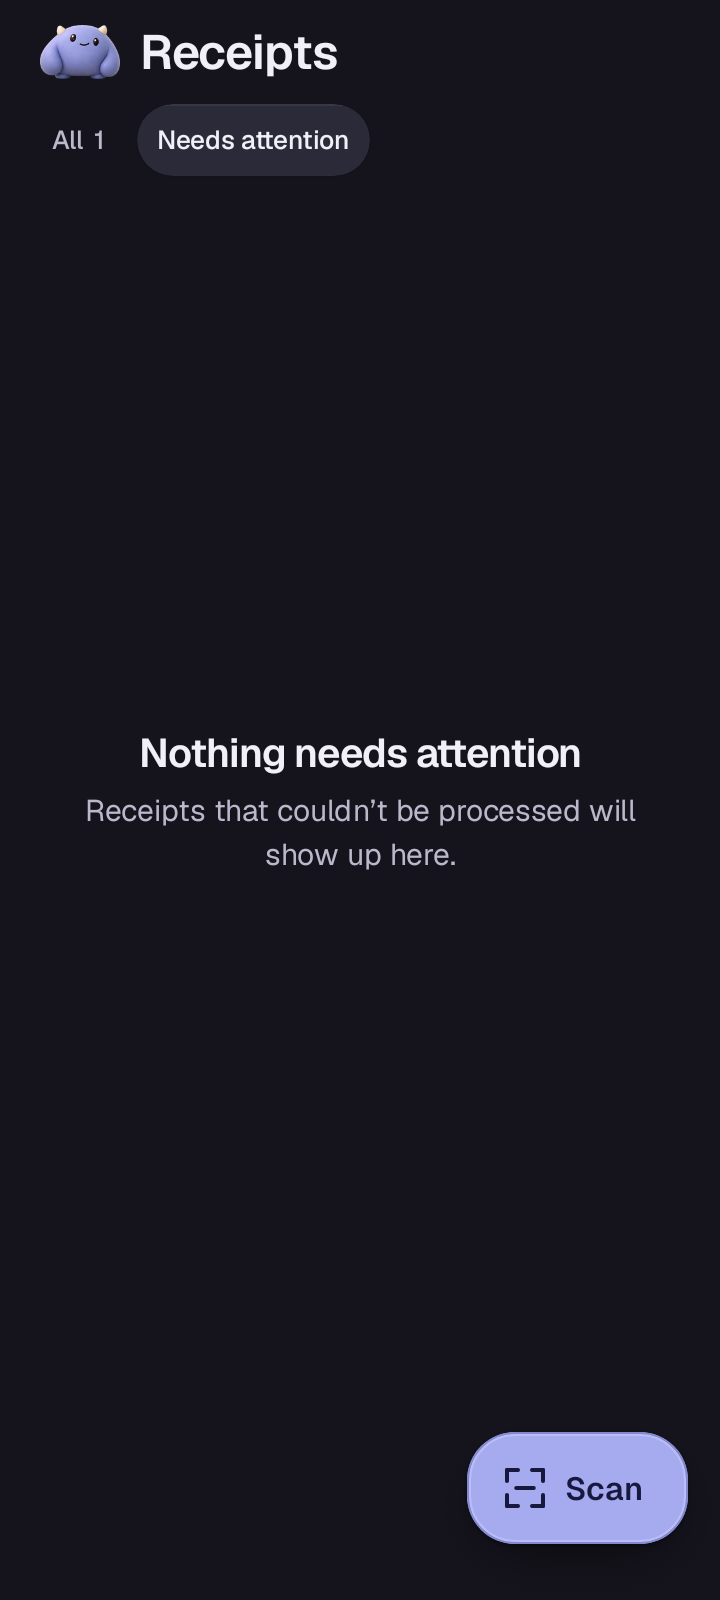
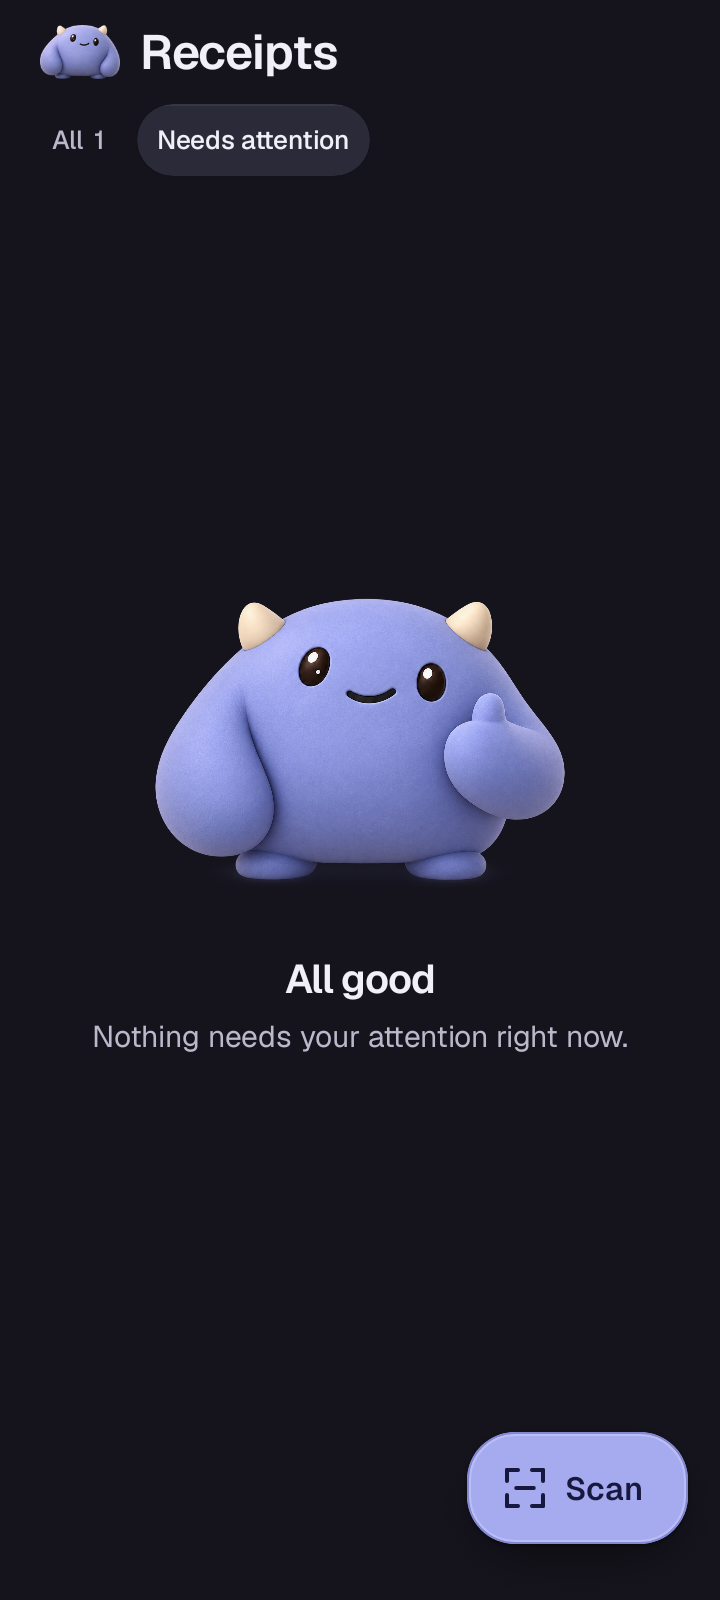
feat(goho-android): add reassuring Bram to the all-good state
- show the approved thumbs-up Bram when Needs attention is empty
- pair the illustration with calm all-good copy in both themes
- synchronize design guidance, artwork sources, and native mockups

diff --git a/programs/goho-android/tools/bram-captures/harness/src/com/adamaho/goho/evidence/ReceiptEvidenceTest.kt b/programs/goho-android/tools/bram-captures/harness/src/com/adamaho/goho/evidence/ReceiptEvidenceTest.kt
@@ -68,7 +68,7 @@ class ReceiptEvidenceTest {
     private fun attention(name: String) {
         render(ReceiptOverviewState(receipts = listOf(saved), hasLoaded = true))
         compose.onNodeWithText("Needs attention").performClick()
-        compose.onNodeWithText("Nothing needs attention").assertExists()
+        compose.onNodeWithText("All good").assertExists()
         capture(name)
     }
     private fun error(name: String) { render(ReceiptOverviewState(error = true)); capture(name) }
@@ -98,7 +98,7 @@ class ReceiptEvidenceTest {
         RuntimeEnvironment.setFontScale(2f)
         attention("large-font-no-attention")
         compose.onNodeWithText("Scan", useUnmergedTree = true).assertIsDisplayed()
-        compose.onNodeWithText("Receipts that couldn’t be processed will show up here.", useUnmergedTree = true).performScrollTo().assertIsDisplayed()
+        compose.onNodeWithText("Nothing needs your attention right now.", useUnmergedTree = true).performScrollTo().assertIsDisplayed()
         capture("large-font-no-attention-scrolled")
     }
     private fun deleteLast(withSaved: Boolean, name: String) {
@@ -116,7 +116,7 @@ class ReceiptEvidenceTest {
         compose.waitForIdle()
         compose.onNodeWithText("Delete receipt").performClick()
         compose.waitForIdle()
-        compose.onNodeWithText("Nothing needs attention").assertIsDisplayed()
+        compose.onNodeWithText("All good").assertIsDisplayed()
         compose.onNodeWithText("Needs attention").assertIsSelected()
         compose.onNodeWithText("Needs attention").assertTextEquals("Needs attention")
         compose.onNodeWithText("Scan", useUnmergedTree = true).assertIsDisplayed()

diff --git a/.agents/skills/goho-design/assets/compose/GohoComponents.kt b/.agents/skills/goho-design/assets/compose/GohoComponents.kt
@@ -986,8 +986,9 @@ fun GohoDeleteError(modifier: Modifier = Modifier) {
 
 // ---------- Status content (empty and error states) ----------
 
-/** Current status content sits directly on the screen background. No receipts supplies Bram.
- * Needs-attention and load-error states omit illustration; additional character poses are deferred.
+/** Current status content sits directly on the screen background. No receipts supplies receipt-holding Bram.
+ * Empty Needs attention supplies calm thumbs-up Bram with "All good" and "Nothing needs your attention right now."
+ * Each state uses its transparent illustration unchanged in light and dark themes. Load error omits illustration.
  * For retry, pass announcePolitely = true and reserve both button labels.
  * ReceiptOverview owns the success crossfade and passes animateEntrance = false on the incoming status content.
  */

diff --git a/programs/goho-android/app/src/debug/kotlin/com/adamaho/goho/ui/main/ReceiptStatesPreview.kt b/programs/goho-android/app/src/debug/kotlin/com/adamaho/goho/ui/main/ReceiptStatesPreview.kt
@@ -37,12 +37,12 @@ fun ReceiptsRetryingPreview() = StatePreview {
     ReceiptsConnectionErrorState(onRetry = {}, isRetrying = true)
 }
 
-@Preview(name = "Nothing needs attention – light", widthDp = 412)
+@Preview(name = "All good – light", widthDp = 412)
 @Preview(
-    name = "Nothing needs attention – dark",
+    name = "All good – dark",
     widthDp = 412,
     uiMode = Configuration.UI_MODE_NIGHT_YES,
 )
-@Preview(name = "Nothing needs attention – large text", widthDp = 320, fontScale = 1.5f)
+@Preview(name = "All good – large text", widthDp = 320, fontScale = 1.5f)
 @Composable
 fun NoNeedsAttentionPreview() = StatePreview { NoNeedsAttentionState() }

diff --git a/programs/goho-android/app/src/main/kotlin/com/adamaho/goho/ui/components/NoNeedsAttentionState.kt b/programs/goho-android/app/src/main/kotlin/com/adamaho/goho/ui/components/NoNeedsAttentionState.kt
@@ -11,6 +11,7 @@ fun NoNeedsAttentionState(modifier: Modifier = Modifier, animateEntrance: Boolea
         title = stringResource(R.string.receipts_attention_empty),
         description = stringResource(R.string.receipts_attention_empty_body),
         modifier = modifier,
+        illustration = R.drawable.status_needs_attention,
         animateEntrance = animateEntrance,
     )
 }

diff --git a/.agents/skills/goho-design/SKILL.md b/.agents/skills/goho-design/SKILL.md
@@ -5,7 +5,7 @@ description: Goho's visual design system and screen specs for the native Android
 
 # Goho design
 
-Design handoff: October 7, 2026 no-receipts illustration and layout refinement, building on the October 5 Bram refinements (PR #101) and October 2 v2 package. The approved app refinements below take precedence over older examples in the reference assets.
+Design handoff: October 7, 2026 calm “All good” Bram for the empty Needs attention filter, building on the no-receipts and cardless layout refinement (PR #102), October 5 Bram refinements (PR #101), and October 2 v2 package. The approved app refinements below take precedence over older examples in the reference assets.
 
 Goho is a family receipt-scanning app. The look is **warm, soft and friendly, with financial-app precision**: warm off-white in light mode, violet-charcoal in dark mode, one lavender accent, generous rounded corners, Geist type with restrained weights and proportional figures, grouped cards, and buttons that press down with a small spring.
 
@@ -13,7 +13,7 @@ Think "Family wallet's warmth and motion, Linear's calm surfaces", never "Materi
 
 ## Bram refinements
 
-Buttons use flat fills, darker edge rings, faint inner rings and soft wide shadows; see `references/tokens.md`. Current Bram artwork is limited to the no-receipts illustration and neutral stance/header mark in `assets/illustrations/`. Render the supplied artwork unchanged. All three list status states render directly on the screen background, without an enclosing card fill, border or rounded clipping. Preserve their content padding, spacing and placement. The no-receipts state uses one transparent image of Bram cradling a blank receipt in both themes. Needs-attention and load-error states contain text and their existing actions, without illustrations or reserved illustration space. Additional character poses and accessories are deferred to a later PR. Interactive accents are lavender. The decorative 40dp neutral Bram mark precedes the Receipts title with a 10dp gap, except in the load-error state. Buttons have 20dp corners and Scan 24dp. Status entrance, retry, recovery, and large-text behavior are specified in `references/screens.md` section 6.
+Buttons use flat fills, darker edge rings, faint inner rings and soft wide shadows; see `references/tokens.md`. Current Bram artwork in `assets/illustrations/` includes the no-receipts illustration, calm thumbs-up for the empty Needs attention filter, and neutral stance/header mark. Render the supplied artwork unchanged. All three list status states render directly on the screen background, without an enclosing card fill, border or rounded clipping. Preserve their content padding, spacing and placement. The no-receipts state uses one transparent image of Bram cradling a blank receipt in both themes. The empty Needs attention state uses one transparent image of Bram giving a calm thumbs-up in both themes, with “All good” and “Nothing needs your attention right now.” Keep his familiar lilac and cream palette, soft smile and rounded arm; no confetti or streamers. Load-error content remains text and retry action, without illustration or reserved illustration space. Additional character poses and accessories are deferred until their feature is implemented. Interactive accents are lavender. The decorative 40dp neutral Bram mark precedes the Receipts title with a 10dp gap, except in the load-error state. Buttons have 20dp corners and Scan 24dp. Status entrance, retry, recovery, and large-text behavior are specified in `references/screens.md` section 6.
 
 ## Geist typography
 
@@ -58,7 +58,7 @@ The current handoff keeps the same receipt photo, merchant, amount and date head
 2. Build the primitives in `references/components.md`. `assets/compose/GohoComponents.kt` is a reference implementation of them; it has not been compiled, so treat it as a strong starting point and fix any API drift against the project's Compose version.
 3. Build screens from `references/screens.md`, which has the layout top to bottom with measurements, copy, states and behavior.
 4. Compare against the mockups listed in `assets/mockups/README.md`. The written spec wins if they disagree.
-5. When an approved UI change alters the design, update the affected specs, Compose references, illustration assets, and current mockups together. Preserve supplied artwork; label older reference assets as historical rather than presenting them as current. Keep the neutral Bram identity reference and no-receipts generation prompts in `assets/illustrations/bram/`, approved artwork in `assets/illustrations/`, and current screen references in `assets/mockups/`. Check in only Bram artwork used by the no-receipts state or neutral stance; defer other character states and concept sheets until their implementation. The Android capture tooling lives in `programs/goho-android/tools/bram-captures/` at the repository root; generated captures and reports belong in the ignored Android `build/` directory.
+5. When an approved UI change alters the design, update the affected specs, Compose references, illustration assets, and current mockups together. Preserve supplied artwork; label older reference assets as historical rather than presenting them as current. Keep the neutral Bram identity reference and generation prompts in `assets/illustrations/bram/`, approved artwork in `assets/illustrations/`, and current screen references in `assets/mockups/`. Check in only Bram artwork used by the no-receipts state, empty Needs attention state or neutral stance; defer other character states and concept sheets until their implementation. The Android capture tooling lives in `programs/goho-android/tools/bram-captures/` at the repository root; generated captures and reports belong in the ignored Android `build/` directory.
 6. Verify the requested behavior against the current Goho server and Android flow before implementing it. Mockups do not establish backend support.
 
 ## Approved receipt-list refinements

diff --git a/programs/goho-android/tools/bram-captures/README.md b/programs/goho-android/tools/bram-captures/README.md
@@ -15,12 +15,12 @@ Outputs default to the ignored `programs/goho-android/build/bram-captures/` dire
 Thirteen existing test filters cover the implemented screens and transitions:
 
 - No receipts: `noReceiptsLight`, `noReceiptsDark`, `smallEmpty`, `tallEmpty`, and `largeTextEmpty`.
-- Nothing needs attention: `noAttentionLight`, `noAttentionDark`, and `largeTextAttention`.
+- All good (empty Needs attention): `noAttentionLight`, `noAttentionDark`, and `largeTextAttention`.
 - Load error: `loadErrorLight`, `loadErrorDark`, and `largeTextError`.
 - Retry and deletion: `retryFailureAndSuccess` and `deleteLastFailedOverall`.
 
-Only the no-receipts state uses special Bram artwork. All three states sit directly on the screen background. Attention and load-error messages use text and their existing actions. The captures cover light and dark at 360×800dp, short at 360×640dp, tall at 412×960dp, and 2× font at 360×640dp, all at 2× density. Large-text checks capture initial and scrolled states and assert that their relevant copy or actions are reachable. The retry check verifies loading, failure, and recovery without shifting the error title; the deletion check verifies that deleting the last failed receipt preserves the selected Needs attention tab and visible Scan action. Fifteen selected screenshots are the approved mockups; the three additional initial large-text screenshots remain generated output.
+The no-receipts and empty Needs attention states use their approved Bram artwork. All three states sit directly on the screen background. Empty Needs attention pairs the calm thumbs-up pose with “All good” and “Nothing needs your attention right now.” Load errors use text and the existing retry action. The captures cover light and dark at 360×800dp, short at 360×640dp, tall at 412×960dp, and 2× font at 360×640dp, all at 2× density. Large-text checks capture initial and scrolled states and assert that their relevant copy or actions are reachable. The retry check verifies loading, failure, and recovery without shifting the error title; the deletion check verifies that deleting the last failed receipt preserves the selected Needs attention tab and visible Scan action. Fifteen selected screenshots are the approved mockups; the three additional initial large-text screenshots remain generated output.
 
-Artwork references and generation prompts live under [the design skill's Bram sources](../../../../.agents/skills/goho-design/assets/illustrations/bram/). The approved PNG master is [status-no-receipts.png](../../../../.agents/skills/goho-design/assets/illustrations/status-no-receipts.png). Approved screen references live in [its mockups directory](../../../../.agents/skills/goho-design/assets/mockups/). Generated capture history remains available in Git: commit `4a866b9` contains the original-artwork baseline and the card-backed receipt artwork, and `69c44fb` contains the cardless state, under the former `art/bram/no-receipts-review/` path.
+Artwork references and generation prompts live under [the design skill's Bram sources](../../../../.agents/skills/goho-design/assets/illustrations/bram/). The approved PNG masters are [status-no-receipts.png](../../../../.agents/skills/goho-design/assets/illustrations/status-no-receipts.png) and [status-needs-attention.png](../../../../.agents/skills/goho-design/assets/illustrations/status-needs-attention.png). Approved screen references live in [its mockups directory](../../../../.agents/skills/goho-design/assets/mockups/). Generated capture history remains available in Git: commit `4a866b9` contains the original-artwork baseline and the card-backed receipt artwork, and `69c44fb` contains the cardless state, under the former `art/bram/no-receipts-review/` path.
 
-The Kotlin harness was recovered from commit `c8f96f46a34118d3d45e44f3f7b2aa710afb86a8`. Its only source change removes the obsolete `output.name == "after"` phase guard from the existing deletion helper so it runs in the current output directory. [Harness provenance](harness-provenance.json) records original/current hashes, that change, and Gradle portability changes. Dependencies and test sources are added only for this invocation through `harness/init.gradle`; production Gradle files and app tests are unchanged. Filters run the 13 checks listed above.
+The Kotlin harness was recovered from commit `c8f96f46a34118d3d45e44f3f7b2aa710afb86a8`. Source changes remove the obsolete `output.name == "after"` phase guard from the existing deletion helper so it runs in the current output directory and update attention-state assertions to the approved “All good” copy. [Harness provenance](harness-provenance.json) records original/current hashes, those changes, and Gradle portability changes. Dependencies and test sources are added only for this invocation through `harness/init.gradle`; production Gradle files and app tests are unchanged. Filters run the 13 checks listed above.

diff --git a/.agents/skills/goho-design/assets/illustrations/README.md b/.agents/skills/goho-design/assets/illustrations/README.md
@@ -1,12 +1,13 @@
 # Bram illustrations
 
-Current Bram assets are limited to the no-receipts empty state and the neutral stance/header mark. The no-receipts artwork was refined on October 7, 2026 and checked in native Compose renders. The neutral header mark retains the approved PR #101 artwork. These PNGs are byte-for-byte copies of the Android drawable assets; keep both copies synchronized when artwork changes.
+Current Bram assets are limited to the no-receipts empty state, calm “All good” pose for the empty Needs attention filter, and neutral stance/header mark. The no-receipts artwork was refined on October 7, 2026 and checked in native Compose renders. The neutral header mark retains the approved PR #101 artwork. These PNGs are byte-for-byte copies of the Android drawable assets; keep both copies synchronized when artwork changes.
 
 - `bram-mark.png`: neutral Bram stance used as a decorative header mark, displayed at 40×40dp in both themes. Omit it on the load-error screen.
 - `status-no-receipts.png`: Bram gently cradling a small blank cream receipt. The same transparent asset is used in light and dark mode, directly on the screen background alongside the empty-state copy, without a surrounding card. No separate plus badge or typing indicator.
+- `status-needs-attention.png`: Bram giving a calm thumbs-up with his familiar smile, rounded arm and lilac and cream palette. Pair it with “All good” and “Nothing needs your attention right now.” The same transparent asset serves both themes directly on the screen background, without a card, confetti or streamers.
 
-The no-receipts PNG is 1350×1165 RGBA. Render unchanged with ContentScale.Fit in the same 220×190dp slot that can shrink proportionally on narrow screens. Artwork is decorative; text supplies the accessible meaning. Android names use underscores instead of hyphens. Needs-attention and load-error states use text and their existing actions directly on the screen background, without cards or illustrations; additional character states and concept sheets are deferred to a later PR.
+Both empty-state PNGs are 1350×1165 RGBA. Render both empty-state illustrations unchanged with ContentScale.Fit in the shared 220×190dp slot that can shrink proportionally on narrow screens. Artwork is decorative; text supplies the accessible meaning. Android names use underscores instead of hyphens. Load error uses text and its retry action directly on the screen background, without a card or illustration. Additional character states and concept sheets are deferred until their feature is implemented.
 
 The SVGs in `legacy/` are the October 2 paper-and-pastel illustrations. They are retained for provenance, not as editable sources for the Bram PNGs. Do not re-export them over the current artwork. No editable Bram source is included in this PR.
 
-The neutral Bram identity reference and no-receipts generation prompts live in [bram/](bram/README.md). `status-no-receipts.png` is the approved master; the Android drawable is its production copy. Current screen captures live in [mockups/](../mockups/README.md). Android capture tooling lives in `programs/goho-android/tools/bram-captures/` at the repository root and writes generated evidence to the ignored Android `build/` directory. Earlier resources and review evidence remain in Git history at commit `69c44fb`. No-receipts artwork was created with built-in imagegen; it is a raster source, not an editable 3D rig.
+The neutral Bram identity reference and generation prompts live in [bram/](bram/README.md). `status-no-receipts.png` and `status-needs-attention.png` are the approved masters; their Android drawables are production copies. Current screen captures live in [mockups/](../mockups/README.md). Android capture tooling lives in `programs/goho-android/tools/bram-captures/` at the repository root and writes generated evidence to the ignored Android `build/` directory. Earlier resources and review evidence remain in Git history at commit `69c44fb`. Both empty-state illustrations were created with built-in imagegen; they are raster sources, not editable 3D rigs.

diff --git a/.agents/skills/goho-design/assets/mockups/README.md b/.agents/skills/goho-design/assets/mockups/README.md
@@ -1,14 +1,14 @@
 # Mockups
 
-## Current status states (October 7, 2026 Bram asset scope)
+## Current status states (October 7, 2026 calm All good Bram)
 
-These captures render the production ReceiptOverview and its components using Robolectric native Android graphics (API 35) and Roborazzi. They are app renders without system bars, not emulator screenshots or redrawn mock layouts. The current captures show Bram cradling a blank receipt directly on the no-receipts screen background, the neutral Bram header mark where applicable, and text-only needs-attention and load-error content directly on the screen background. None of the three status states has an enclosing card. Their capture tooling is in `programs/goho-android/tools/bram-captures/` at the repository root. Dedicated Bram artwork for other states is deferred to a later PR.
+These captures render the production ReceiptOverview and its components using Robolectric native Android graphics (API 35) and Roborazzi. They are app renders without system bars, not emulator screenshots or redrawn mock layouts. The current captures show Bram cradling a blank receipt in the no-receipts state, a calm thumbs-up with “All good” in the empty Needs attention state, and text with a retry action in the load-error state. Content sits directly on the screen background, with the neutral Bram header mark where applicable. None of the three status states has an enclosing card. Their capture tooling is in `programs/goho-android/tools/bram-captures/` at the repository root. Dedicated Bram artwork for other states is deferred until their feature is implemented.
 
-- `empty-needs-attention.png` and `empty-needs-attention-light.png`: Nothing needs attention text directly on the screen background, neutral Bram header mark, selected filter, and Scan.
+- `empty-needs-attention.png` and `empty-needs-attention-light.png`: Calm thumbs-up Bram with “All good” and “Nothing needs your attention right now.” directly on the screen background, neutral Bram header mark, selected filter, and Scan.
 - `empty-no-receipts.png` and `empty-no-receipts-light.png`: No receipts yet, with Bram and copy directly on the screen background, no surrounding card, and Scan in its footer; no filters.
 - `load-error.png` and `load-error-light.png`: Load-error text and retry action directly on the screen background, title only in the header, no Bram illustration or Scan.
 - `retry-running.png`, `retry-failed.png`, `retry-succeeded.png`: Disabled retry with stable bounds, failure in place, and the loaded list after success (light).
-- `deleted-last-failed-overall.png`: Needs-attention text on the screen background and neutral Bram header; Needs attention stays selected with All 0 after deleting the last failed receipt (light).
+- `deleted-last-failed-overall.png`: Calm thumbs-up Bram and All good copy on the screen background, with neutral Bram header; Needs attention stays selected with All 0 after deleting the last failed receipt (light).
 - `large-font-load-error-scrolled.png`, `large-font-no-attention-scrolled.png`, `large-font-no-receipts-scrolled.png`: 2× font, scrolled to expose the body/action; Scan has its own footer where present.
 - `small-360-no-receipts.png` and `tall-no-receipts.png`: Short and tall layout references.
 

diff --git a/.agents/skills/goho-design/references/components.md b/.agents/skills/goho-design/references/components.md
@@ -32,8 +32,8 @@ Reference implementations live in `assets/compose/GohoComponents.kt`. Every pres
 
 - Full width inside the screen margin, padding 28 top / 24 sides / 32 bottom (24 bottom when it has a button). Content centered directly on the screen background. No enclosing card fill, border or rounded clipping in any list status state.
 - Use the shared status content for no receipts, needs attention and load error. Preserve the shared padding, spacing, entrance and centered placement; the Scan footer stays separate when present.
-- No receipts shows an illustration (220×190dp), followed by a 14dp gap before the title. Needs-attention and load-error states omit both the illustration and this gap. Title is 20/26 SemiBold −0.02em `textPrimary`, followed by a 6dp gap before body text in `body` `textSecondary` (max width 290dp), then an optional full-width button 22dp below.
-- Illustration assets live in `assets/illustrations/`. No receipts uses one shared transparent `status-no-receipts.png` (1350×1165) in both themes. Preserve the PNG unchanged and render with `ContentScale.Fit` in the existing slot up to 220dp wide with a 220:190 aspect ratio. Only this pose and the neutral Bram stance/header mark are current; dedicated artwork for other states is deferred. The older SVGs in `legacy/` are not sources for these Bram images.
+- No receipts and empty Needs attention show an illustration (220×190dp), followed by a 14dp gap before the title. Load error omits both the illustration and this gap. Title is 20/26 SemiBold −0.02em `textPrimary`, followed by a 6dp gap before body text in `body` `textSecondary` (max width 290dp), then an optional full-width button 22dp below.
+- Illustration assets live in `assets/illustrations/`. No receipts uses `status-no-receipts.png`; empty Needs attention uses the calm thumbs-up `status-needs-attention.png`. Both PNGs are 1350×1165 RGBA, with each state using the same transparent asset in both themes. Preserve the artwork unchanged and render with `ContentScale.Fit` in the existing slot up to 220dp wide with a 220:190 aspect ratio. These two poses and the neutral Bram stance/header mark are current; dedicated artwork for other states is deferred until its feature is implemented. The older SVGs in `legacy/` are not sources for these Bram images.
 - The illustration is decorative (`contentDescription = null`); the title is a heading and the title/body group carries the meaning. Only the load-error content is a polite live region.
 - Entrance: one 200ms fade with a 6dp upward settle; no looping character animation. Successful retry crossfades the whole error screen to the loaded state in 200ms without replaying the incoming status entrance. With reduced motion, render the final state immediately.
 - The retry button reserves space for both “Try again” and “Trying again…” at the current font scale. Hidden measurement labels have no semantics. Disable the button while retrying and preserve its bounds after failure.

diff --git a/.agents/skills/goho-design/references/screens.md b/.agents/skills/goho-design/references/screens.md
@@ -147,7 +147,7 @@ One GohoSheet, opened from the details screen's overflow button, by pressing and
 
 ## 6. Empty and error states
 
-Mockups: `empty-needs-attention*.png`, `empty-no-receipts*.png`, `load-error*.png` (dark and `-light`). All three use the shared status content layout (components.md), directly on the screen background without an enclosing card fill, border or rounded clipping. Needs attention and load error show text and their existing actions; omit illustrations and reserved illustration space. No receipts shares one transparent Bram asset across both themes. Render it and the neutral Bram header mark unchanged. Dedicated character artwork for other states is deferred to a later PR. Older SVG illustrations are historical.
+Mockups: `empty-needs-attention*.png`, `empty-no-receipts*.png`, `load-error*.png` (dark and `-light`). All three use the shared status content layout (components.md), directly on the screen background without an enclosing card fill, border or rounded clipping. No receipts and empty Needs attention each share one transparent Bram asset across both themes. Render them and the neutral Bram header mark unchanged. Load error shows text and the retry action, without an illustration or reserved illustration space. Dedicated character artwork for other states is deferred until its feature is implemented. Older SVG illustrations are historical.
 
 **Layout and transitions**
 
@@ -159,8 +159,8 @@ Mockups: `empty-needs-attention*.png`, `empty-no-receipts*.png`, `load-error*.pn
 **Needs attention, nothing in it**
 
 - Header includes Bram and filters ("Needs attention" selected, no badge). Preserve both filters after deleting the last failed receipt, even when the overall count is zero. The Scan button stays.
-- Text-only status content centered vertically between the filter and the Scan button, directly on the screen background. Omit the illustration and the gap that would precede the title.
-- Title "Nothing needs attention"; text "Receipts that couldn’t be processed will show up here." No button.
+- Bram and the copy are centered vertically between the filter and the Scan button, directly on the screen background. Illustration `status-needs-attention`: Bram gives a calm thumbs-up with a soft smile, using his familiar lilac and cream palette and rounded arms. Keep the approved pose without confetti, streamers or extra decorative colors. The single transparent PNG serves both themes, in the shared 220×190dp illustration slot.
+- Title "All good"; text "Nothing needs your attention right now." No button.
 
 **No receipts yet** (the account has no receipts at all)
 

diff --git a/.agents/skills/goho-design/assets/illustrations/bram/README.md b/.agents/skills/goho-design/assets/illustrations/bram/README.md
@@ -1,10 +1,11 @@
 # Bram sources
 
 - `reference/bram-v3.png`: original neutral Bram identity and proportions.
-- `no-receipts.prompts.json`: generation and edge-refinement prompts for the current empty-state illustration. Current file references are relative to this directory; the historical pose reference is recorded as a Git object.
+- `no-receipts.prompts.json`: generation and edge-refinement prompts for the no-receipts illustration. Current file references are relative to this directory; the historical pose reference is recorded as a Git object.
+- `needs-attention.prompts.json`: generation prompt and provenance for the approved calm thumbs-up illustration in the empty Needs attention state.
 
-The approved PNG master is [status-no-receipts.png](../status-no-receipts.png). The Android drawable is its production copy; do not keep an additional master here. Preserve Bram’s broad lilac body, long rounded arms, small ivory horns, tiny feet and soft texture.
+The approved PNG masters are [status-no-receipts.png](../status-no-receipts.png) and [status-needs-attention.png](../status-needs-attention.png). The Android drawables are their production copies; do not keep additional masters here. Preserve Bram’s broad lilac body, long rounded arms, small ivory horns, tiny feet and soft texture.
 
-Only the no-receipts pose and neutral Bram stance are in scope. The earlier accessory concept sheet is preserved in Git history at the object named in `no-receipts.prompts.json`, because it was an input to this illustration. Additional character states and their source artwork will be added with their implementation in a later PR.
+Only the no-receipts pose, calm thumbs-up for the empty Needs attention filter, and neutral Bram stance are in scope. The thumbs-up accompanies “All good” and “Nothing needs your attention right now.” Preserve its quiet lilac and cream palette without confetti or streamers. The earlier accessory concept sheet is preserved in Git history at the object named in `no-receipts.prompts.json`, because it was an input to this illustration. Additional character states and their source artwork will be added with their implementation in a later PR.
 
 Current native screen references live in [mockups](../../mockups/). Regenerate them with the Android capture tooling in `programs/goho-android/tools/bram-captures/` at the repository root. Generated captures and reports belong in the ignored Android `build/` directory. Earlier artwork and review evidence remain in Git history.

diff --git a/.agents/skills/goho-design/references/tokens.md b/.agents/skills/goho-design/references/tokens.md
@@ -99,6 +99,7 @@ Plain `RoundedCornerShape` is fine. If the project already has a smooth-corner (
 - Detail list row: height 47, label left, value right.
 - Section spacing: 24 above a section label, 8 below it.
 - Header: title row is at least 44 tall at status bar inset + 4dp. Bram mark is 40×40 with a 10dp title gap; omit it for load errors.
+- Status illustrations: no receipts and empty Needs attention use the existing 220×190 slot and 14dp title gap. Fit each transparent asset unchanged in both themes; load error has no illustration or reserved gap.
 - Bottom: FAB sits 28dp above the navigation bar inset, 16dp from the right.
 
 ## Elevation and shadow
